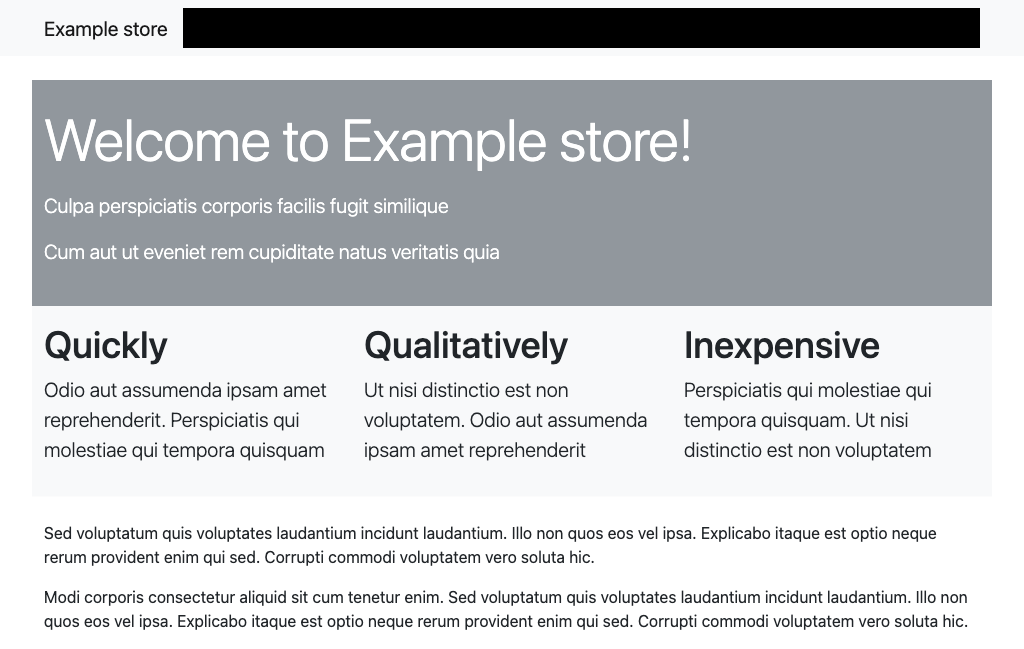
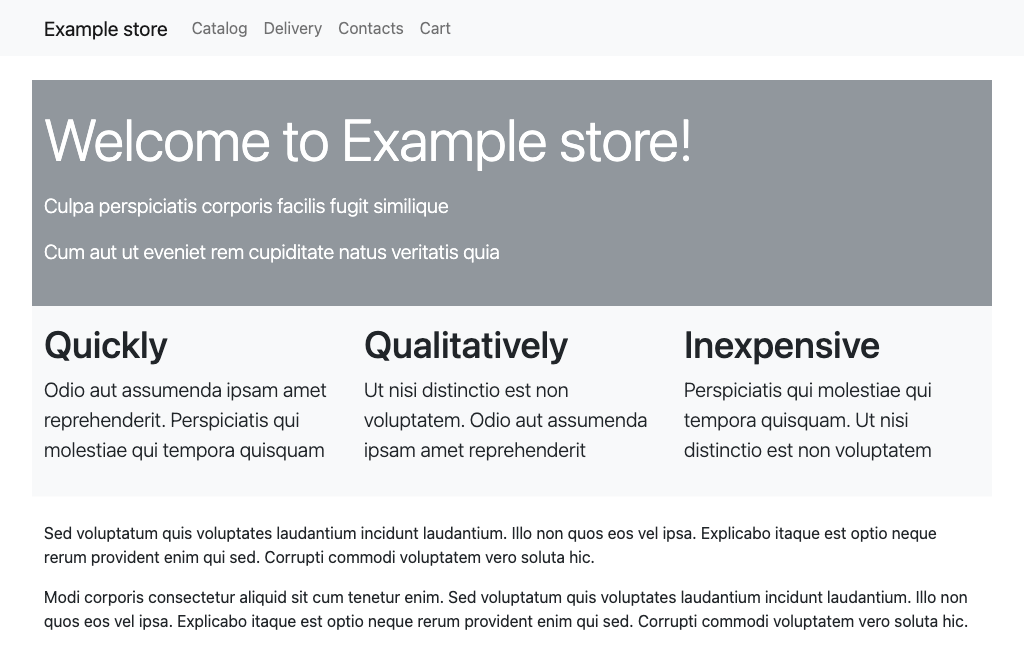
adds e2e test for checkout, more screenshot tests

Changed region(s): [[0.1562, 0.0, 0.9688, 0.0924]]

diff --git a/test/hermione/cart.hermione.js b/test/hermione/cart.hermione.js
@@ -215,4 +215,68 @@ describe("Тестирование корзины.", () => {
       "Должна отображаться ссылка на каталог."
     );
   });
+
+  it(`После создания заказа должно появляться уведомление об успешной покупке`, async ({
+    browser,
+  }) => {
+    await browser.setWindowSize(1024, 1000);
+
+    browser.execute(() => window.localStorage.removeItem("example-store-cart"));
+
+    const idsToTest = [0];
+    for (const id of idsToTest) {
+      for (let i = 0; i < 3; i++) {
+        await clickAddToCartButton(browser, { id, count: 0 });
+      }
+    }
+    const cartTable = await getCartTable(browser);
+
+    assert.equal(
+      await cartTable.isDisplayed(),
+      true,
+      "Таблица с заказом должна существовать."
+    );
+
+    const form = await browser.$(".Form");
+    assert.equal(
+      await form.isDisplayed(),
+      true,
+      "Форма заказа должна существовать."
+    );
+
+    const formInputName = await browser.$(".Form-Field_type_name");
+    const formInputPhone = await browser.$(".Form-Field_type_phone");
+    const formInputAddress = await browser.$(".Form-Field_type_address");
+
+    await formInputName.addValue("Bob");
+    await formInputPhone.addValue("89005553030");
+    await formInputAddress.addValue("ABC");
+
+    const submitButton = await browser.$(".Form-Submit");
+    assert.equal(
+      await submitButton.isDisplayed(),
+      true,
+      "Кнопка отправки формы должна существовать."
+    );
+    await submitButton.click();
+
+    await new Promise((resolve) => {
+      setTimeout(() => resolve(), 1000);
+    });
+
+    const cartSuccessCard = await browser.$(".Cart-SuccessMessage");
+
+    assert.equal(
+      await cartSuccessCard.isDisplayed(),
+      true,
+      "Карточка успешной покупки должна существовать."
+    );
+
+    const cardClasses = await cartSuccessCard.getAttribute("class");
+    assert.include(
+      cardClasses,
+      "alert-success",
+      "Карточка успешной покупки должна иметь класс alert-success"
+    );
+  });
 });

diff --git a/test/hermione/pages.hermione.js b/test/hermione/pages.hermione.js
@@ -13,14 +13,25 @@ describe("Тестирование страниц", () => {
       browser,
     }) => {
       await browser.setWindowSize(1024, 1000);
+      browser.execute(() =>
+        window.localStorage.removeItem("example-store-cart")
+      );
       await browser.url(getUrl(page === "home" ? "" : page));
       await browser.$(".Application");
-      await browser.assertView(`plain-static-${page}`, ".Application", {
-        ignoreElements: [".Application-Menu"],
-      });
+      await browser.assertView(`plain-static-${page}`, ".Application");
     });
   }
 
   const pagesToTest = ["home", "delivery", "contacts"];
   pagesToTest.forEach((width) => testAdaptiveWidth(width));
+
+  it(`На странице продукта должна быть большая кнопка Add to Cart`, async ({
+    browser,
+  }) => {
+    await browser.setWindowSize(1024, 1000);
+    browser.execute(() => window.localStorage.removeItem("example-store-cart"));
+    await browser.url(getUrl("catalog/0"));
+    await browser.$(".Application");
+    await browser.assertView(`addToCart-button`, ".ProductDetails-AddToCart");
+  });
 });

diff --git a/README.md b/README.md
@@ -52,6 +52,21 @@ npm start
 
 ## Как проверять
 
+Все функциональные требования были покрыты тестами.
+
+Для запуска тестов с параметром `bug id` 
+```sh
+# только интеграционные — ловят 4, 6, 7 bug id
+BUG_ID=id npm run test:e2e
+
+# только модульные — не ловят bug id
+BUG_ID=id npm run test:unit
+
+#все тесты
+BUG_ID=id npm run test
+```
+
+
 Вы можете запускать приложение с параметром `bug id`, который может принимать значение от 1 до 10. Каждое из значений `bug id` добавляет в работу приложения какой-то баг. Проверьте, что без параметра `bug id` все тесты проходят, а для каждого значения `bug id` падают 1-2 теста.
 
 Как передать `bug id`:
